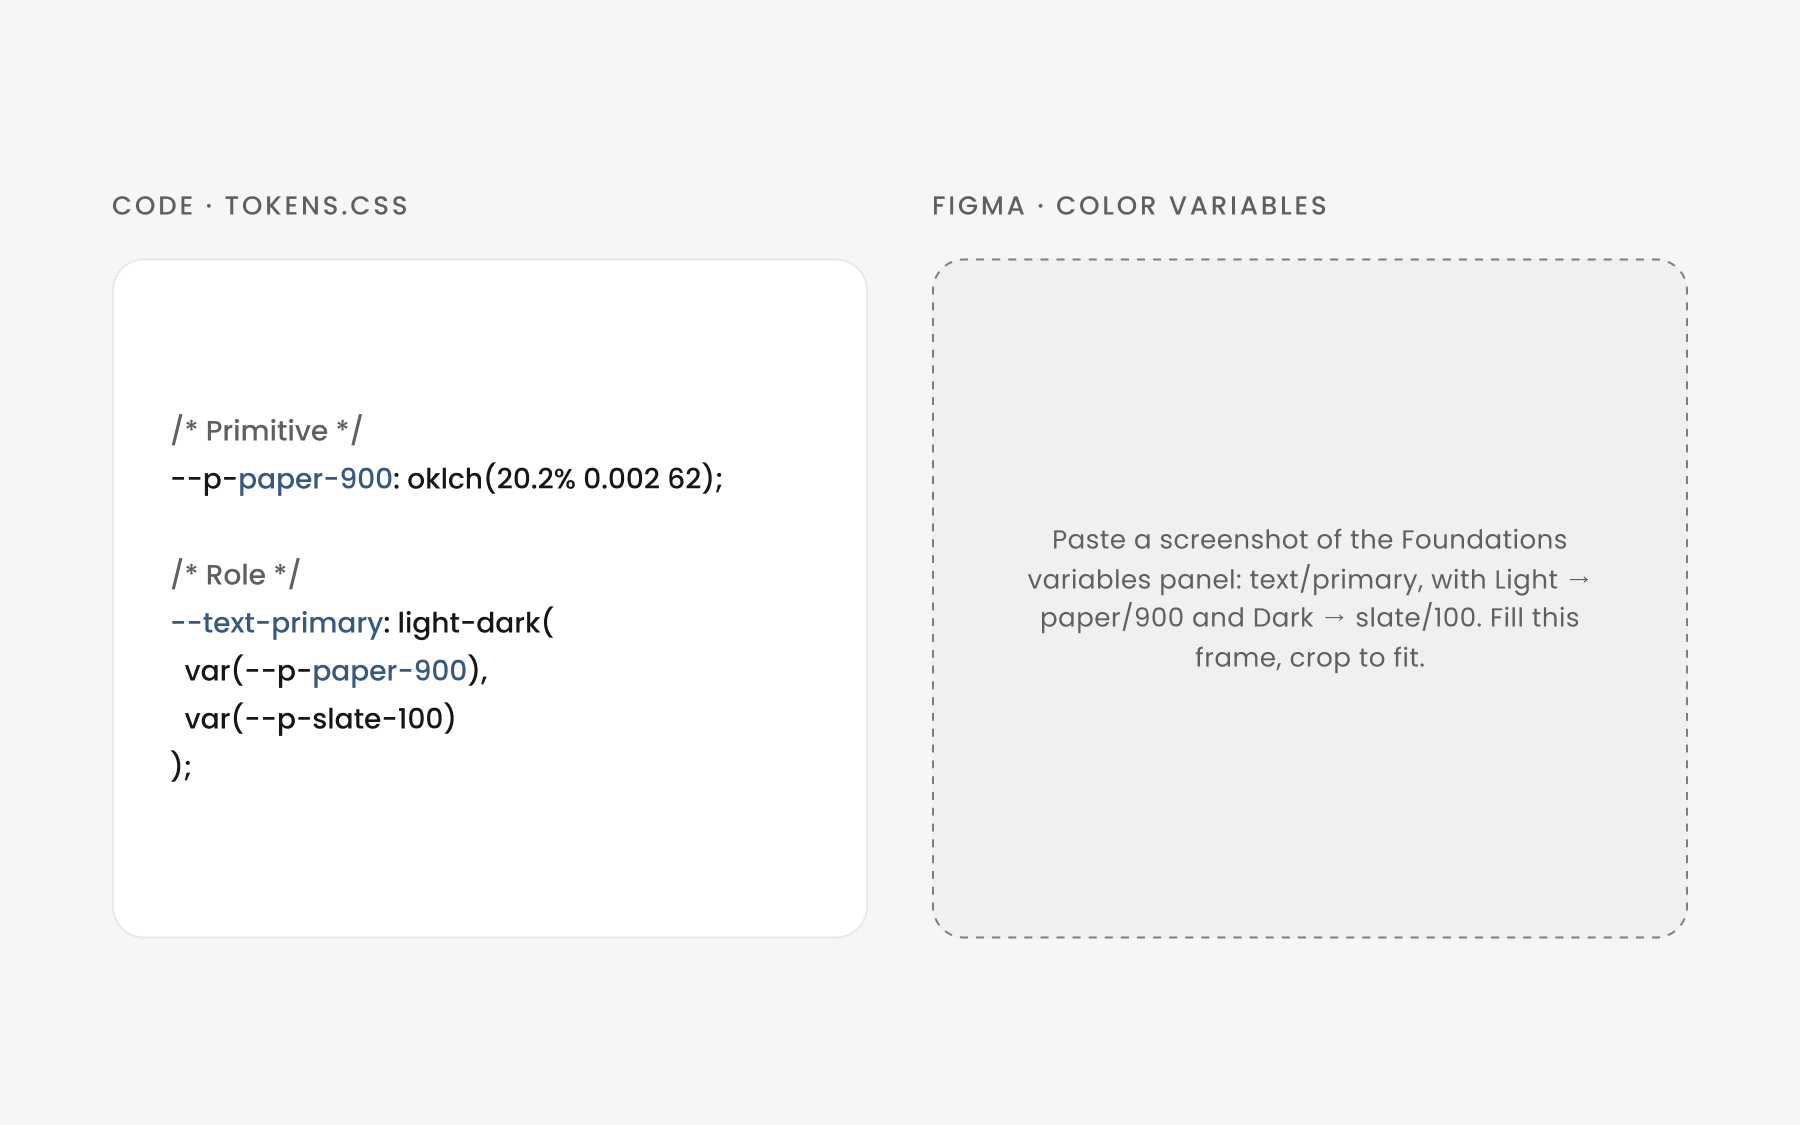
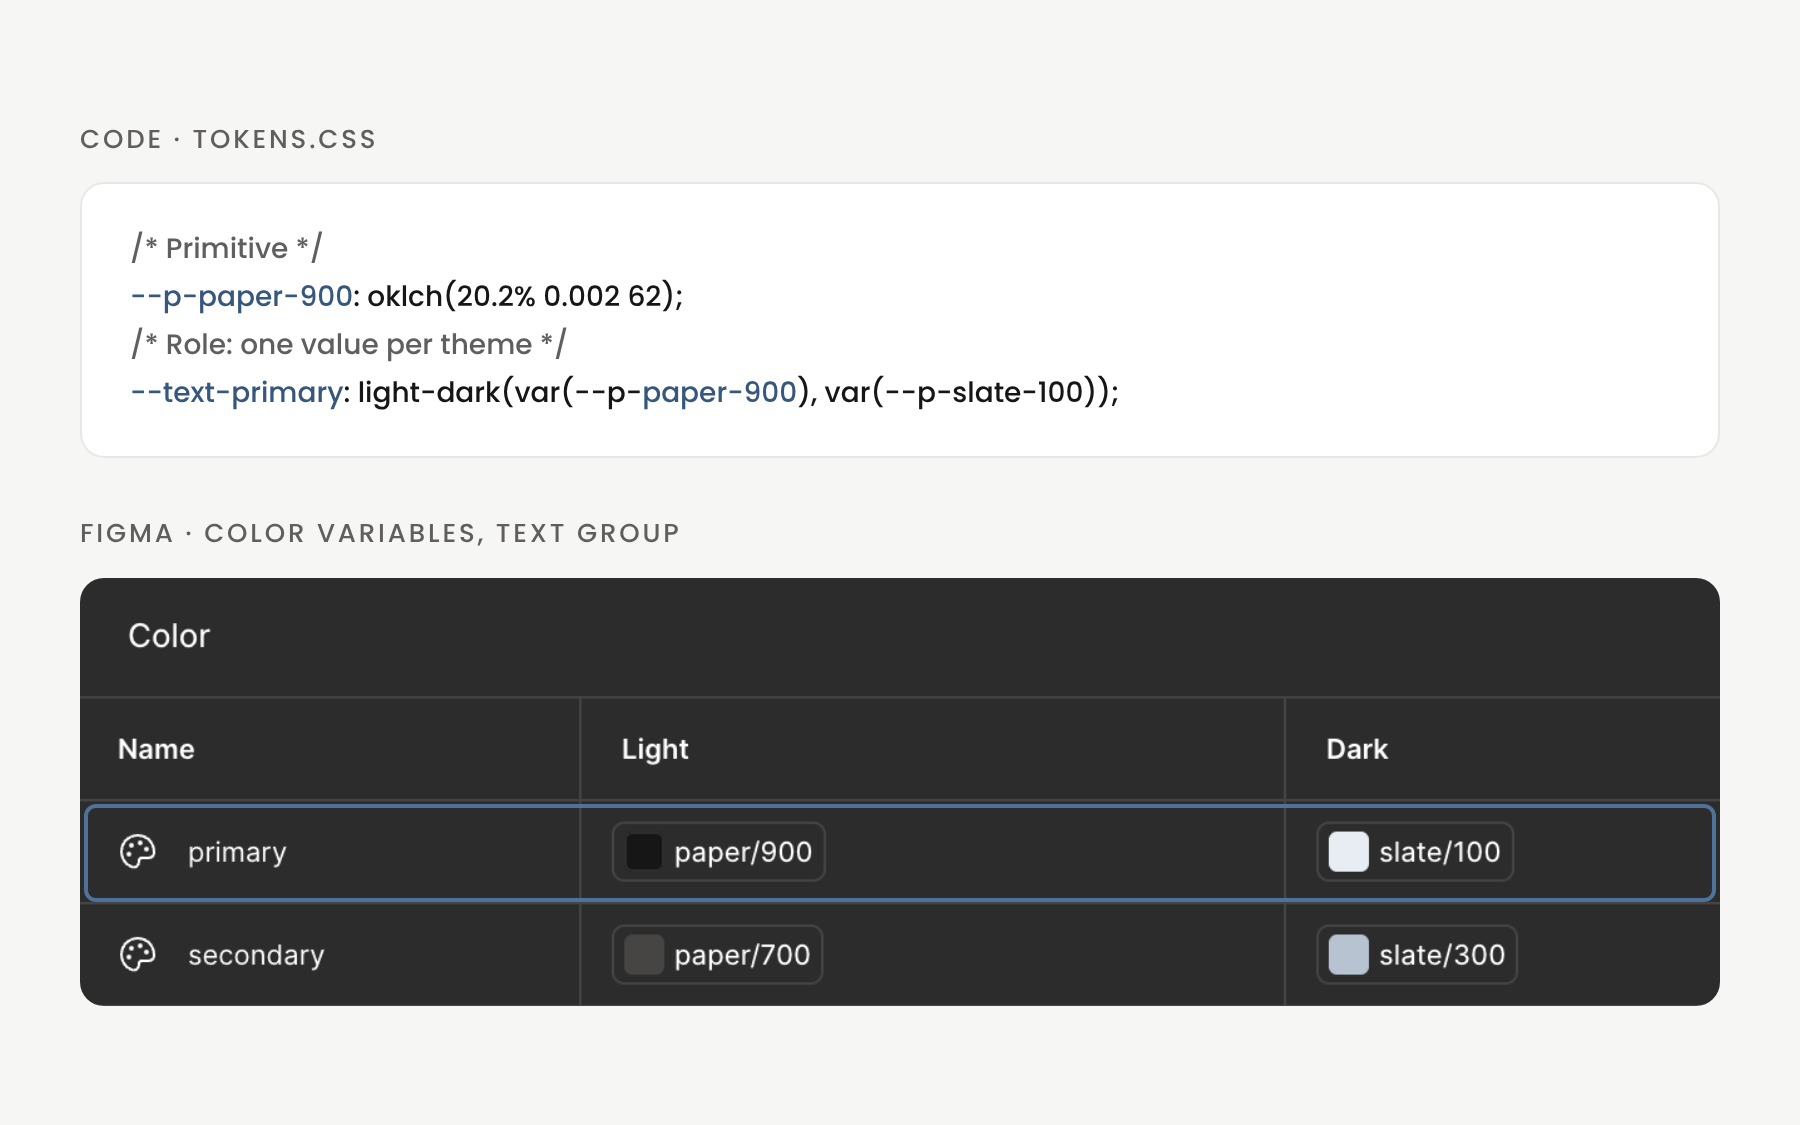
Add the one-source evidence image to the design system case study
tokens.css and the Figma variables panel, one above the other: text-primary is paper-900 in light and slate-100 in dark, in both.

diff --git a/src/app/work/a-system-you-can-inspect/page.tsx b/src/app/work/a-system-you-can-inspect/page.tsx
@@ -14,6 +14,7 @@ import { Tag } from "@/design-system/components/Tag";
 import navigationOneSetting from "@/assets/evidence/navigation-one-setting.png";
 import contrastMeasured from "@/assets/evidence/contrast-measured.png";
 import buttonSheetBothThemes from "@/assets/evidence/button-sheet-both-themes.png";
+import oneSource from "@/assets/evidence/one-source.png";
 import { Figure } from "@/design-system/components/Figure";
 import { OutcomeStats } from "@/design-system/components/OutcomeStats";
 
@@ -260,7 +261,8 @@ export default function SystemCaseStudy() {
                   caption="Thirty variants and the reasoning behind them on one sheet, drawn from the component itself. One variable mode switches the sheet and every button on it between themes."
                 />
                 <Figure
-                  alt="The token for the darkest text, in code beside Figma. In tokens.css, --text-primary points at --p-paper-900; in the Figma variables panel, text/primary points at paper/900."
+                  src={oneSource}
+                  alt="The token for the darkest text, in code above Figma. In tokens.css, --text-primary points at --p-paper-900 in the light theme and --p-slate-100 in the dark. In the Figma variables panel, text primary is paper/900 under Light and slate/100 under Dark, outlined."
                   caption="The darkest text, softened in one place. The role is defined once in code and once in Figma, under the same name and pointing at the same raw value, so one change carries to both."
                 />
                 <Figure
